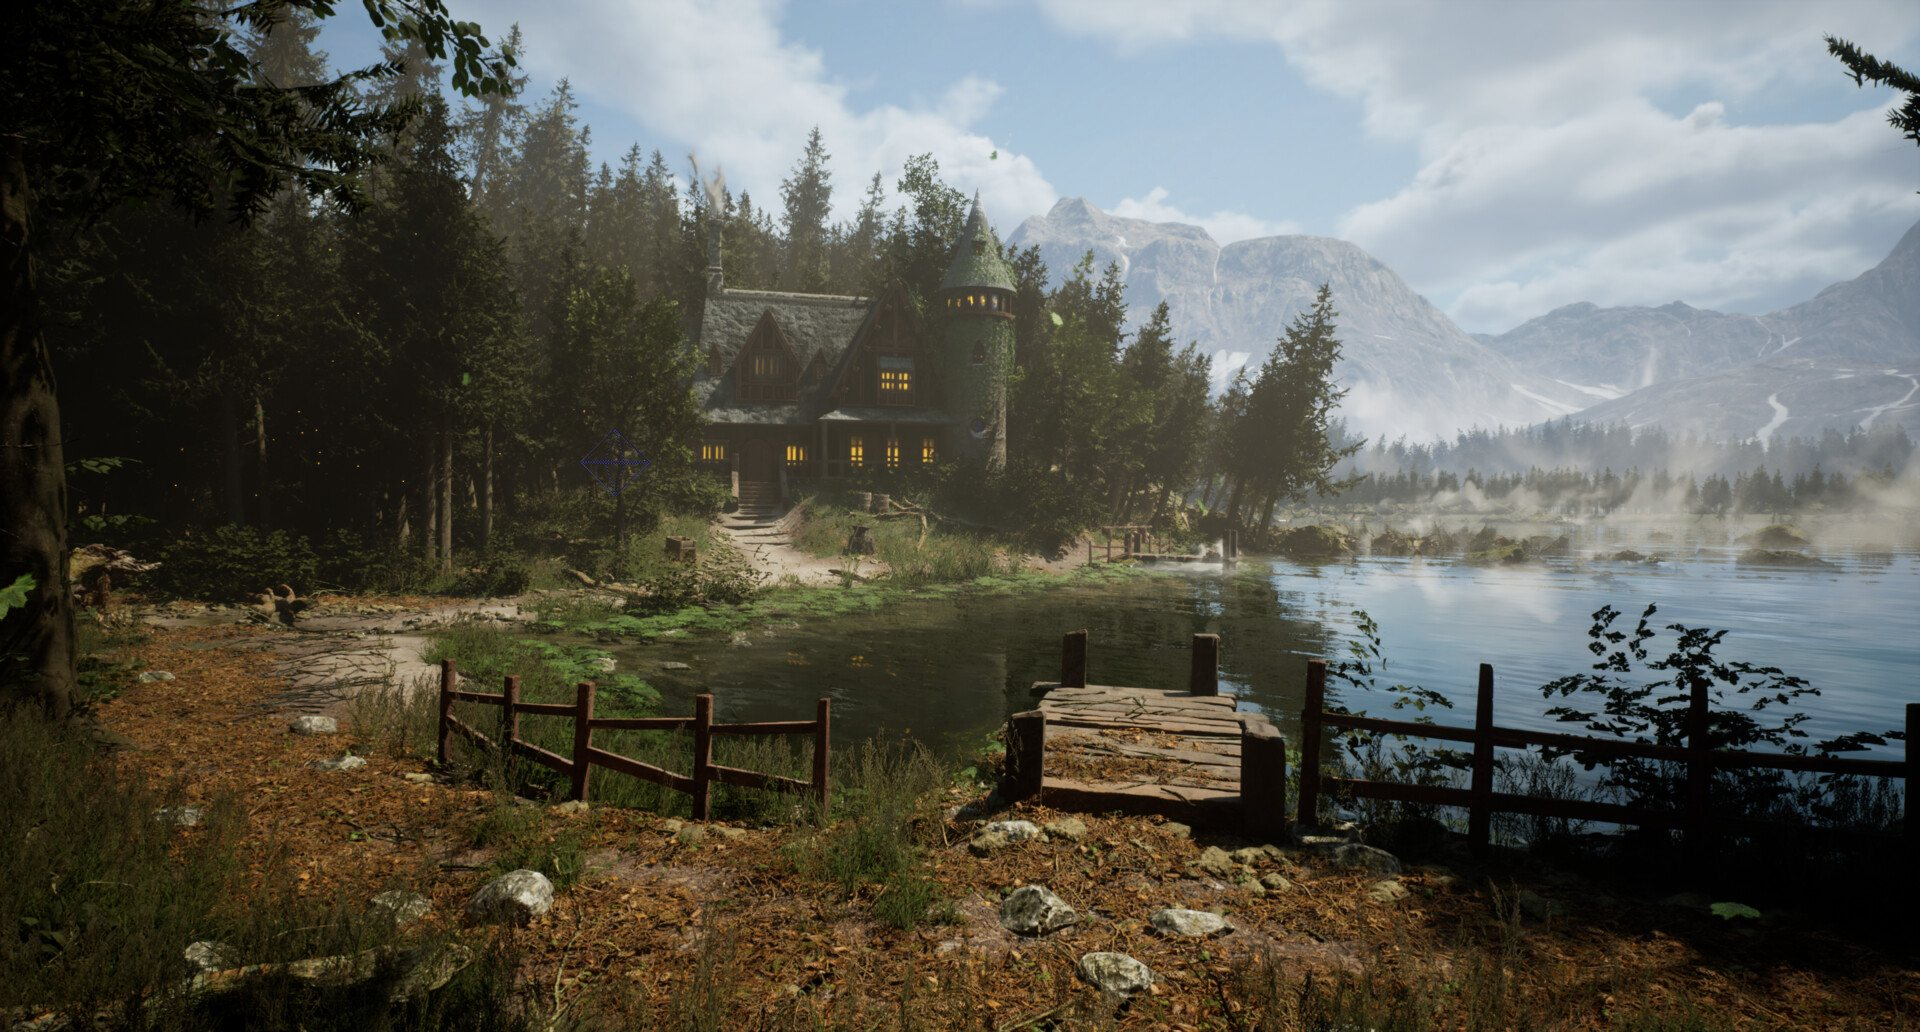
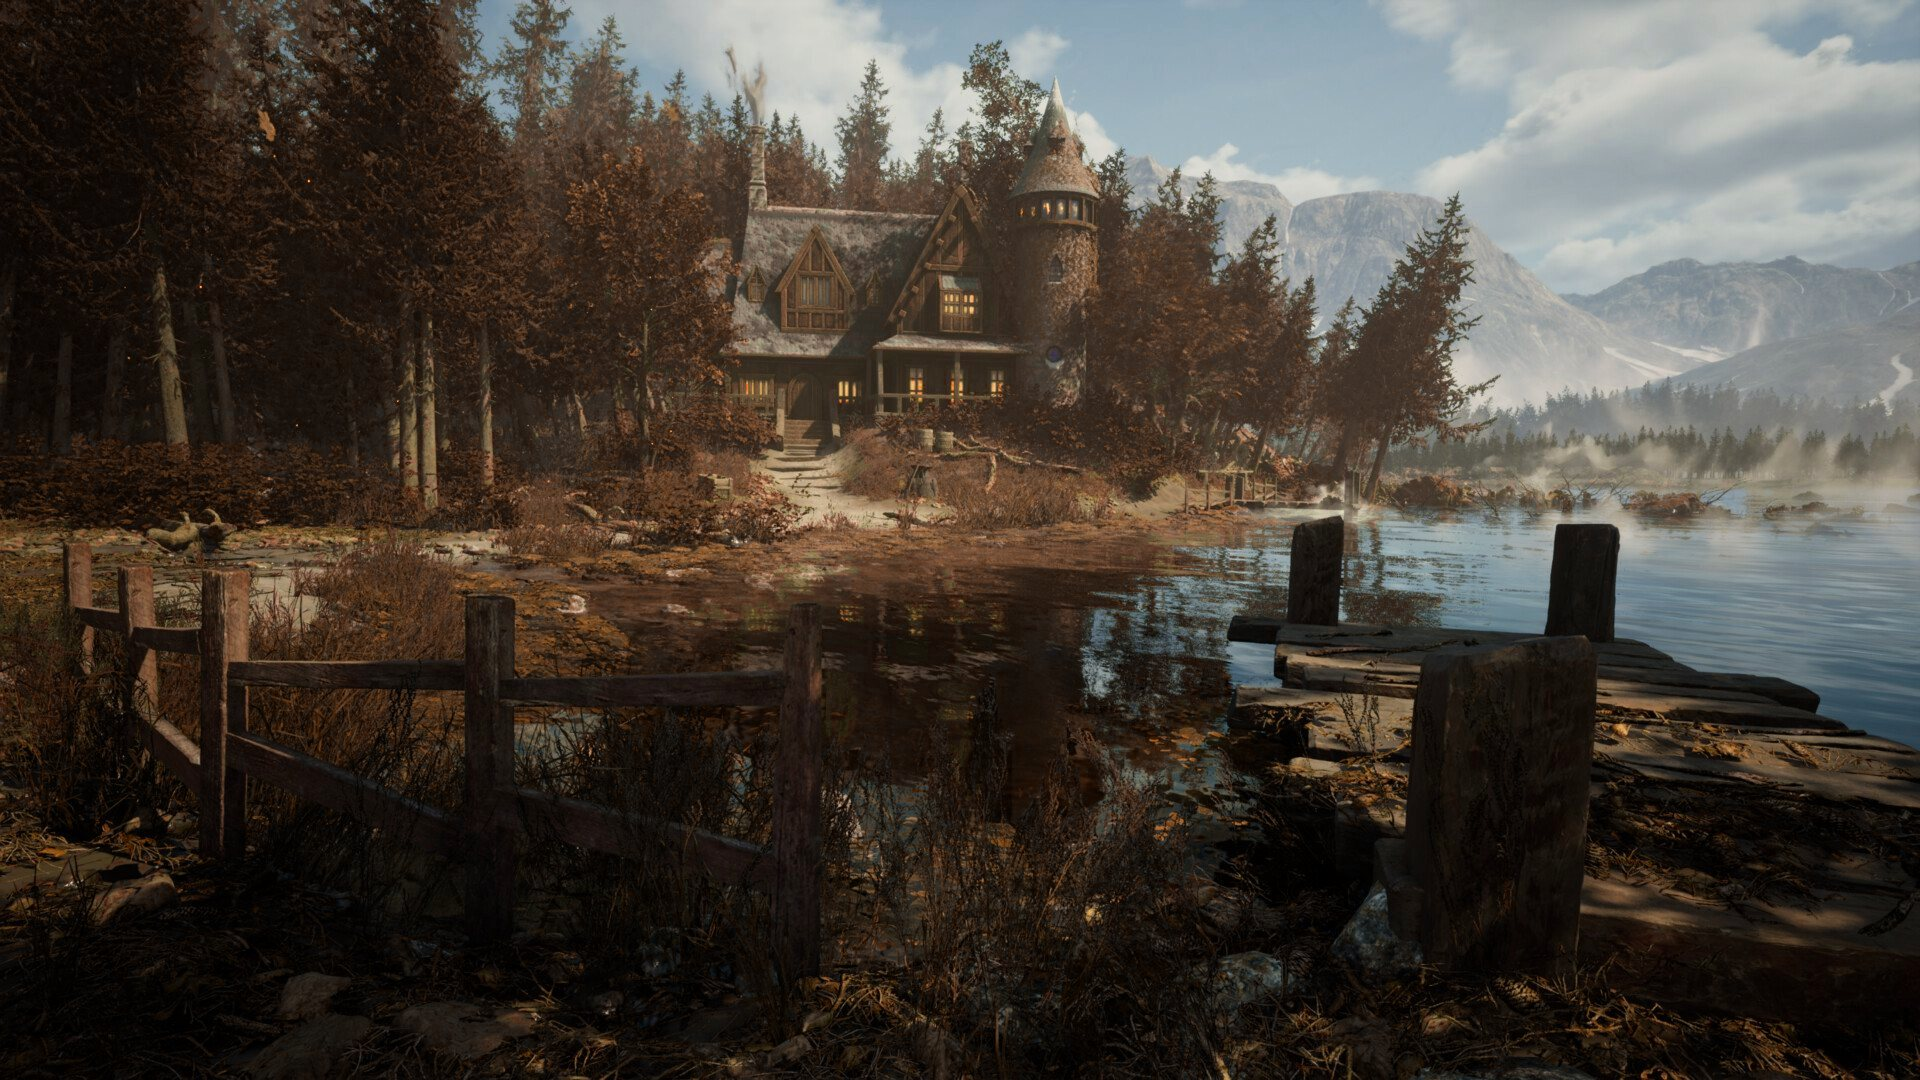
Weather spots cycle records in every room; Room music record; autumn Seehaus
- Seehaus autumn uses the Morgenlicht view regraded to autumn, so
  cycling the weather no longer jumps to a different camera angle
- Klassenzimmer window, Astronomie sun & moon, Bibliothek window and
  the Seehaus sky cycle Morgen → Herbst → Regen → Nacht, changing the
  light and playing that record; the top sun/moon only changes light
- Bibliothek: the desk lamps open Musik & Licht
- New first record "Room music" (garden-library picture) plays the
  room's own track

diff --git a/index.html b/index.html
@@ -119,6 +119,8 @@ textarea{min-height:120px;resize:vertical;line-height:1.6}
 .yt{font-weight:700;color:#f2b98a;text-decoration:none;padding:6px 2px}
 .ytbox{padding:12px 16px;margin-top:18px}
 .ytbox.ytm{margin:0 0 16px}
+.m-room .beam{background:radial-gradient(ellipse 60% 40% at 50% 18%,#fff4c855 0,#0000 70%);mix-blend-mode:screen;animation:glowpulse 7s ease-in-out infinite}
+.recs{grid-template-columns:repeat(auto-fit,minmax(min(150px,100%),1fr))}
 .bar button.icon{width:40px;padding:0;display:inline-grid;place-items:center}
 .bar button.icon svg{width:20px;height:20px;display:block}
 #mute[aria-pressed="true"]{border-color:#d98a6a;color:#f2b98a}
@@ -471,13 +473,13 @@ const ROOMS={
    {st:'praep',r:[[1246,530,90,64]],l:[1290,612],lab:'Truhe · Präpositionen'},
    {st:'verben',r:[[1446,392,118,130],[588,418,60,74]],l:[1505,380],lab:'Bücher · Verben'},
    {st:'konn',r:[[232,552,356,170]],l:[410,540],lab:'Tisch · Konnektoren'},
-   {st:'daynight',r:[[654,276,94,196]],l:[700,262],lab:'Fenster · Tag/Nacht'}]},
+   {st:'wetter',r:[[654,276,94,196]],l:[700,262],lab:'Fenster · Wetter'}]},
  astro:{n:'Astronomie',w:1920,h:1200,day:'img/astro-day.jpg',night:'img/astro-night.jpg',
   glows:[[1188,70,60],[1016,160,30],[918,220,30],[1302,152,26],[1400,252,26],[1738,182,30]],
   dust:[[0,800,700,1100]],
   spots:[
    {st:'mindmap',r:[[770,590,140,130]],l:[840,575],lab:'Teleskop · Mindmap',zoom:[835,655]},
-   {st:'daynight',r:[[1190,512,210,212]],l:[1295,740],lab:'Sonne & Mond · Tag/Nacht'},
+   {st:'wetter',r:[[1190,512,210,212]],l:[1295,740],lab:'Sonne & Mond · Wetter'},
    {st:'platten',r:[[880,10,880,290]],l:[1190,310],lab:'Leuchter · Musik'},
    {st:'pflanze',r:[[212,256,94,470],[486,312,82,400],[722,352,82,350]],l:[520,250],lab:'Sternenfenster · Fortschritt'},
    {st:'pruefung',r:[[980,940,220,260]],l:[1090,925],lab:'Stuhl · Mini-Prüfung'}]},
@@ -486,10 +488,11 @@ const ROOMS={
   dust:[[1200,300,1800,900]],
   spots:[{st:'tagebuch',r:[[440,700,550,190]],l:[740,668],lab:'Schreibtisch · Tagebuch',zoom:[740,770]},
    {st:'logs',r:[[994,598,62,178]],l:[1025,588],lab:'Bücher · Denkarium'},
-   {st:'platten',r:[[1690,180,170,540]],l:[1775,160],lab:'Fenster · Musik & Licht'}]},
+   {st:'wetter',r:[[1690,180,170,540]],l:[1775,160],lab:'Fenster · Wetter'},
+   {st:'platten',r:[[612,618,72,88],[812,624,72,88]],l:[648,598],lab:'Lampen · Musik & Licht'}]},
  see:{n:'Seehaus',variants:(()=>{const sp=[{st:'notizen',r:[[720,80,380,360]],l:[905,460],lab:'Seehaus · Schnellnotizen',zoom:[905,330]},{st:'platten',r:[[1230,520,690,480]],l:[1560,500],lab:'Steg · Musik'},{st:'wetter',r:[[1150,0,770,300]],l:[1450,210],lab:'Himmel · Wetter'}];
    return {morgen:{img:'img/lake-morgen.jpg',w:1920,h:1080,spots:sp,fx:'pollen',dust:[[0,100,800,700]]},
-     herbst:{img:'img/lake-herbst.jpg',w:1920,h:1032,fx:'leaves',dust:[[0,0,1920,700]],spots:[{st:'notizen',r:[[690,170,330,330]],l:[855,520],lab:'Seehaus · Schnellnotizen',zoom:[855,380]},{st:'platten',r:[[1000,680,290,160]],l:[1145,860],lab:'Steg · Musik'},{st:'wetter',r:[[1100,0,820,240]],l:[1450,200],lab:'Himmel · Wetter'}]},
+     herbst:{img:'img/lake-herbst.jpg',w:1920,h:1080,spots:sp,fx:'leaves',dust:[[0,0,1920,700]]},
      regen:{img:'img/lake-regen.jpg',w:1920,h:1080,spots:sp,fx:'rain',dust:[[0,0,1920,1080]]},
      nacht:{img:'img/lake-nacht.jpg',w:1920,h:1080,spots:sp,fx:'fireflies',dust:[[0,350,1920,1000]],glows:[[762,385,18],[848,388,18],[915,382,18],[958,385,16],[995,383,16],[960,292,22],[1052,212,26]]}}})()}};
 function RD(){const R=ROOMS[room];if(!R.variants)return R;return {...R,glows:[],dust:[],...(R.variants[S.mood]||R.variants.morgen)}}
@@ -522,7 +525,7 @@ function crossfade(fn,ms){const w=$('#world');let c=null;try{c=w.cloneNode(true)
 function snapT(){const w=$('#world');w.classList.remove('zooming','unzooming');w.style.transition='none';applyT();void w.offsetWidth;w.style.transition=''}
 function unzoom(){if(!zoomT)return;crossfade(()=>{zoomT=null;snapT()},450)}
 function hit(st,i){if(st==='daynight')return toggleNight();
-  if(st==='wetter'){const order=['morgen','herbst','regen','nacht'];setMood(order[(order.indexOf(S.mood)+1)%4]);save();buildRoom();return}
+  if(st==='wetter'){const order=['morgen','herbst','regen','nacht'],m=order[(order.indexOf(S.mood)+1)%4];setMood(m);save();buildRoom();const url=S.links[m];status('Wetter: '+MOODS[m].n+(ytParse(url||'')?' ♪':''));if(ytParse(url||'')){gestured=true;if(muted)setMuted(false);playFaded(url,m)}return}
   const sp=RD().spots[+i];
   if(st==='tagebuch'&&room==='bib'){zoomTo(sp.zoom[0],sp.zoom[1],()=>{$('#closeup').classList.add('on');setTimeout(()=>openPanel(st),450)});return}
   if(st==='mindmap'){zoomTo(sp.zoom[0],sp.zoom[1],()=>openEye());return}
@@ -797,8 +800,9 @@ function svgMotif(k){return {morgen:'<circle cx="70%" cy="34%" r="16%" fill="#ff
 const RIMG={morgen:'img/rec-morgen.jpg',herbst:'img/rec-herbst.jpg',regen:'img/rec-regen.jpg',nacht:'img/rec-nacht.jpg'};
 function recFx(k){return {morgen:'<i class="fx sun"></i><i class="fx rays"></i>',herbst:'<i class="fx lf l1"></i><i class="fx lf l2"></i><i class="fx lf l3"></i><i class="fx lf l4"></i><i class="fx lf l5"></i>',regen:'<i class="fx rain"></i><i class="fx rain r2"></i><i class="fx flash"></i>',nacht:'<i class="fx stars"></i><i class="fx moon"></i>'}[k]||''}
 function recBtn(act,extra,key,mood,title,has){const on=ytOn&&ytKey===key;return `<div class="recw"><button class="rec photo m-${mood} ${S.mood===mood&&act==='rec'?'on':''} ${on?'playing':''}" data-act="${act}" ${extra} data-key="${key}" ${has?'data-has="1"':''} aria-pressed="${on}"><span class="ph"><img src="${RIMG[mood]}" alt="" loading="lazy"></span>${recFx(mood)}<span class="lbl">${title}<small class="st">${on?' · playing ♪':(has?' · tap to play':' · add a link below')}</small></span></button></div>`}
-function platV(){const recs=Object.entries(MOODS).map(([k,m])=>recBtn('rec',`data-m="${k}"`,k,k,`${m.n}<br><small>${m.en}</small>`,!!ytParse(S.links[k]||''))).join('')+S.myrecs.map((r,i)=>recBtn('myrec',`data-i="${i}"`,'my'+i,MOODS[r.mood]?r.mood:'morgen',esc(r.n)+'<br>',true)).join('');
-  return `<p class="hint">Tap a record to change the light and play its music. Tap it again to pause.</p><div class="recs">${recs}</div>${(q=>q?`<p class="quote">„${q[0]}“<span>${q[1]}</span></p>`:'')(REC_QUOTE[S.mood])}
+function roomCard(){const key='room:'+room,on=ytOn&&ytKey===key,has=!!ytParse((S.roomLinks||{})[room]||'');return `<div class="recw"><button class="rec photo m-room ${on?'playing':''}" data-act="roomrec" data-key="${key}" ${has?'data-has="1"':''} aria-pressed="${on}"><span class="ph"><img src="img/rec-raum.jpg" alt="" loading="lazy"></span><i class="fx beam"></i><span class="lbl">Room music<br><small>${ROOMS[room].n}</small><small class="st">${on?' · playing ♪':(has?' · tap to play':' · add a link below')}</small></span></button></div>`}
+function platV(){const recs=roomCard()+Object.entries(MOODS).map(([k,m])=>recBtn('rec',`data-m="${k}"`,k,k,`${m.n}<br><small>${m.en}</small>`,!!ytParse(S.links[k]||''))).join('')+S.myrecs.map((r,i)=>recBtn('myrec',`data-i="${i}"`,'my'+i,MOODS[r.mood]?r.mood:'morgen',esc(r.n)+'<br>',true)).join('');
+  return `<p class="hint"><b>Room music</b> plays each room's own track. The four weather records change the light and play their music. Tap a record again to pause.</p><div class="recs">${recs}</div>${(q=>q?`<p class="quote">„${q[0]}“<span>${q[1]}</span></p>`:'')(REC_QUOTE[S.mood])}
   <div class="row" style="margin-top:18px"><label for="vol" class="hint" style="margin:0">Volume</label><input type="range" id="vol" min="0" max="1" step=".05" value="${vol}" style="flex:1"><button class="btn" data-act="${ytOn?'stop':'playmusic'}">${ytOn?'■ Stop music':'▶ Play music'}</button></div>
   <p class="hint" id="ytstate" aria-live="polite" style="margin:6px 0 0">${esc(ytMsg)}</p>
   <p class="hint" style="margin:4px 0 0;font-size:12px">Pictures: records by @thewizardingowl (Instagram) · header by Sigachen</p>
@@ -821,7 +825,7 @@ const okUrl=u=>/^https:\/\/[^\s"<>]+$/i.test(u);
 function plantV(){const toFlower=10-S.leaves%10;return `<div class="game" style="display:grid;grid-template-columns:minmax(0,160px) minmax(0,1fr);gap:16px;align-items:center;text-align:left"><img src="img/plant.jpg" alt="" style="width:100%;border-radius:12px;filter:saturate(${Math.min(1.3,.5+S.leaves/30)})"><div><div class="big" style="margin:0 0 8px">${S.leaves} ${S.leaves===1?'Blatt':'Blätter'}</div><div class="prog" aria-hidden="true"><i style="width:${(S.leaves%10)*10}%"></i></div><p class="hint">${toFlower} more ${toFlower===1?'leaf':'leaves'} until the next blossom.</p></div></div>
   <p>Your plant grows with you: <b>+2</b> for each journal entry, <b>+1</b> for each new note, <b>+1</b> for every 5 correct answers when practising.</p><p class="hint">No streaks and nothing to lose. If you take a week off, it just waits for you.</p>
   <div class="ytbox"><b>Back up your notes and journal</b><p class="hint" style="margin:4px 0 10px">Everything lives in this browser. Clearing your browsing data would delete it, so download a backup now and then (for example into OneDrive). A backup also moves everything to another device.</p><div class="row"><button class="btn main" data-act="bkexport">Download backup</button><label class="btn" style="cursor:pointer">Restore from a backup<input type="file" id="bkfile" accept=".json,application/json" hidden></label></div><p class="hint" id="bkmsg" aria-live="polite" style="margin:6px 0 0">${S.lastBackup?'Last backup: '+new Date(S.lastBackup).toLocaleDateString('en-GB',{day:'numeric',month:'long',year:'numeric'}):'No backup yet.'}</p></div>
-  <p class="hint" style="font-size:12px;margin-top:14px">Picture credits: chest, cauldron and door by Ulysses Graphics / Avalanche (Hogwarts Legacy) · portraits, quill & ink and pensieve: artists unknown · hourglass by Elsa Banaszak · music header by Sigachen · records by @thewizardingowl.</p>`}
+  <p class="hint" style="font-size:12px;margin-top:14px">Picture credits: chest, cauldron and door by Ulysses Graphics / Avalanche (Hogwarts Legacy) · Room music picture by Studio Gobo / Avalanche · portraits, quill & ink and pensieve: artists unknown · hourglass by Elsa Banaszak · music header by Sigachen · records by @thewizardingowl.</p>`}
 
 /* ---------- events ---------- */
 $('#chips').addEventListener('click',e=>{const b=e.target.closest('[data-open]');if(b)hit(b.dataset.open,b.dataset.i)});
@@ -881,6 +885,7 @@ $('#pbody').addEventListener('click',e=>{const b=e.target.closest('[data-act]');
   case 'addpin':{const v=$('#newpin').value.trim();if(!v)return;const id=rid();S.pins.push({id,title:v});S.notes['pin:'+id]=[];pinOpen=id;drawPins();addLeaves(1);break}
   case 'pinrename':{const p=S.pins.find(x=>x.id===pinOpen),v=$('#pintitle').value.trim();if(p&&v){p.title=v;save()}break}
   case 'pindel':{if(!armed(b))return;S.pins=S.pins.filter(x=>x.id!==pinOpen);delete S.notes['pin:'+pinOpen];pinOpen=null;drawPins();save();break}
+  case 'roomrec':{const key='room:'+room;if(ytOn&&ytKey===key){ytPause();break}if(muted)setMuted(false);gestured=true;ytKey=null;ytMsg='';if(!(S.roomOn&&ytParse((S.roomLinks||{})[room]||''))){P.rm=1;ytMsg=S.roomOn?'No room music is set for this room yet: add a link below.':'Room music is switched off below.';break}roomMusic();break}
   case 'rec':{const m=d.m;setMood(m);buildRoom();save();const url=S.links[m];if(!ytParse(url||'')){P.yt=1;ytMsg='Add a YouTube link for '+MOODS[m].n+' below, then tap the record again.';break}if(ytOn&&ytKey===m){ytPause();break}if(muted)setMuted(false);playFaded(url,m);break}
   case 'stop':stopMusic();ytPause();ytKey=null;ytMsg='';setMuted(true);break;
   case 'playmusic':setMuted(false);gestured=true;ytKey=null;ytMsg='';if(!(S.roomOn&&ytParse((S.roomLinks||{})[room]||''))){ytMsg='No room music is set for this room. Tap a record, or add a room link below.';break}roomMusic();break;
